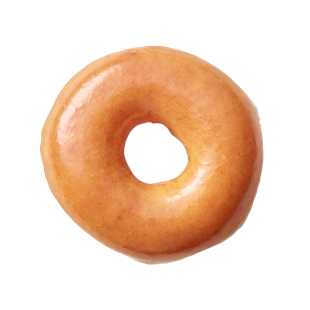
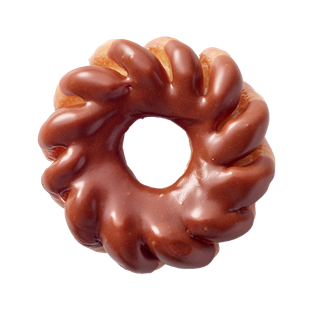
new commits

diff --git a/src/components/Products/data.js b/src/components/Products/data.js
@@ -1,29 +1,34 @@
 import product1 from "../../images/product1.png";
 import product2 from "../../images/product2.png";
 import product3 from "../../images/product3.png";
+import product4 from "../../images/product4.png";
+import product5 from "../../images/product5.png";
+import product6 from "../../images/product6.png";
+import product7 from "../../images/product7.png";
+import product8 from "../../images/product8.png";
 export const productData = [
   {
     img: product1,
     alt: "Donuts",
-    name: "Glazed",
-    desc: "Simple, basic, generic",
-    price: "$1.99",
+    name: "Original Filled Chocolate Dream",
+    desc: "Glazed with a few stripes of chocolate.",
+    price: "$2.50",
     button: "Add to Cart",
   },
   {
     img: product2,
     alt: "Donuts",
-    name: "Chocolate",
-    desc: "one for the choc lovers",
-    price: "$3.00",
+    name: "Chocolate Iced Glazed Crueller",
+    desc: "Chocolate frosting on a glazed crueller donut",
+    price: "$2.50",
     button: "Add to Cart",
   },
   {
     img: product3,
     alt: "Donuts",
-    name: "Cake Donut",
-    desc: "one for the cake lovers",
-    price: "$2.00",
+    name: "Chocolate Iced Glazed with Sprinkles",
+    desc: "Sprinkles!",
+    price: "$2.50",
     button: "Add to Cart",
   },
 ];
@@ -31,25 +36,65 @@ export const productDataTwo = [
   {
     img: product1,
     alt: "Donuts",
-    name: "Glazed",
-    desc: "Simple, basic, generic",
-    price: "$1.99",
+    name: "Chocolate Iced Glazed Crueller",
+    desc: "Chocolate flavored crueller",
+    price: "$2.50",
     button: "Add to Cart",
   },
   {
     img: product2,
     alt: "Donuts",
-    name: "Chocolate",
-    desc: "one for the choc lovers",
-    price: "$3.00",
+    name: "Chocolate Iced Custard Filling",
+    desc: "Custard Filling",
+    price: "$2.50",
     button: "Add to Cart",
   },
   {
     img: product3,
     alt: "Donuts",
-    name: "Cake Donut",
-    desc: "one for the cake lovers",
-    price: "$2.00",
+    name: "Chocolate Glazed Donut",
+    desc: "Chocolate on Chocolate",
+    price: "$2.50",
+    button: "Add to Cart",
+  },
+  {
+    img: product4,
+    alt: "Donuts",
+    name: "Strawberry-Iced",
+    desc: "strawberry flavor",
+    price: "$2.50",
+    button: "Add to Cart",
+  },
+  {
+    img: product5,
+    alt: "Donuts",
+    name: "Glazed Chocolate Cake",
+    desc: "Cake with chocolate frosting",
+    price: "$2.50",
+    button: "Add to Cart",
+  },
+  {
+    img: product6,
+    alt: "Donuts",
+    name: "Chocolate Iced Raspberry Filled",
+    desc: "Raspberry filling in a chocolate donut",
+    price: "$2.50",
+    button: "Add to Cart",
+  },
+  {
+    img: product7,
+    alt: "Donuts",
+    name: "Glazed Cinnamon",
+    desc: "Coated in cinnamon and sugar",
+    price: "$2.50",
+    button: "Add to Cart",
+  },
+  {
+    img: product8,
+    alt: "Donuts",
+    name: "Maple Iced",
+    desc: "full of maple flavor",
+    price: "$2.50",
     button: "Add to Cart",
   },
 ];

diff --git a/src/App.js b/src/App.js
@@ -6,14 +6,13 @@ import Hero from "./components/Hero";
 import Products from "./components/Products";
 import Footer from "./components/Footer";
 import { productData, productDataTwo } from "./components/Products/data";
-
 function App() {
   return (
     <Router>
       <GlobalStyle />
 
       <Hero />
-      <Products heading="Iced" data={productData} />
+      <Products heading="Iced" data={productDataTwo} />
       <Feature />
       <Products heading="Glazed" data={productDataTwo} />
       <Feature />
@@ -26,5 +25,4 @@ function App() {
     </Router>
   );
 }
-
 export default App;

diff --git a/dbseed.js b/dbseed.js
@@ -1,6 +1,8 @@
 const express = require("express");
-const app = new express();
+const app = express();
+
 // set up database connection
+
 const knex = require("knex")({
   client: "mysql",
   connection: {
